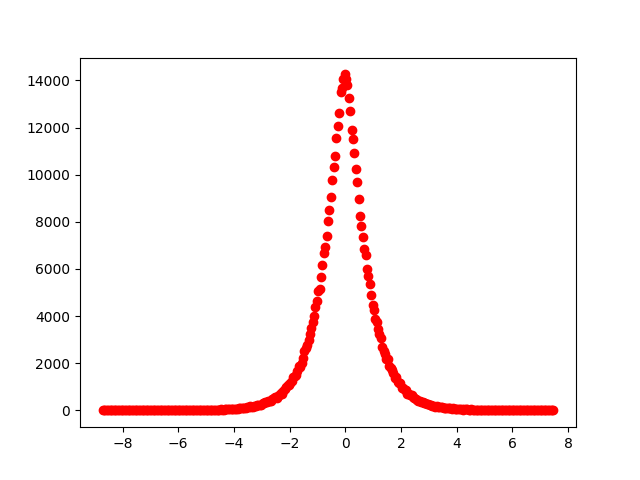
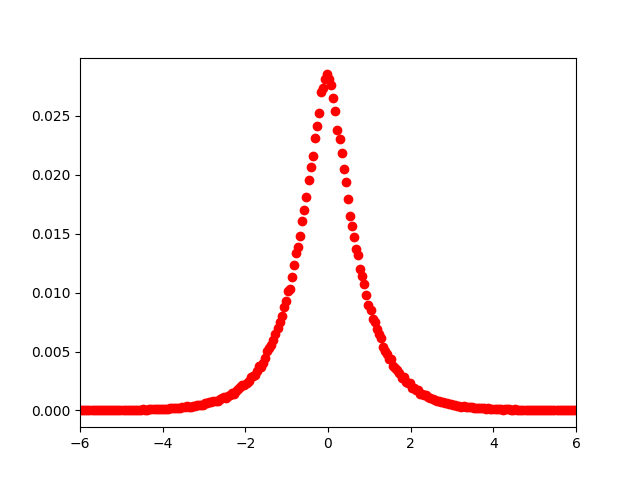
logic for partial arrangements

diff --git a/scripts/md_forces.py b/scripts/md_forces.py
@@ -1,5 +1,6 @@
 import csv
 from lib.gaussian_process import utilities
+from lib.parallel.utilities import parallel
 import numpy as np
 from lib.internal_vector import utilities as iv_utilities
 from lib.gaussian_process.model import GaussianProcess as GP
@@ -9,9 +10,6 @@ import gc
 import matplotlib.pyplot as plt
 
 class MDForcesPredictor:
-
-    def predict(arrangements):
-        pass
 
     def fit(arrangements, forces):
         internal_reps = MDForcesPredictor.produce_internal_from_arrangements(arrangements)
@@ -88,42 +86,21 @@ class MDForcesPredictor:
         MDForcesPredictor.write_data('../datasets/md/iv_reps_108_all.txt', internal_reps)
 
     @staticmethod
-    def load_new_data():
-        all_positions, all_forces = MDForcesPredictor.alternate_load_data('../datasets/lj.dat', 0, 500)
-
-        first_step = all_forces[0]
-
-        first_step_shortened = first_step[:108, :]
-        print(first_step_shortened)
-
-        last_step = all_forces[499]
-
-        last_step_shortened = first_step[:108, :]
-
-        all_steps = np.concatenate(all_forces)
-
-        all_steps_shortened = []
-        for i in range(0, all_steps.shape[0], 1000):
-            all_steps_shortened.append(all_steps[i:i+108, :])
-        all_steps_shortened = np.concatenate(all_steps_shortened)
-
-
-        MDForcesPredictor.plot_force_dist(first_step, 'first')
-        MDForcesPredictor.plot_force_dist(last_step, 'last')
-        MDForcesPredictor.plot_force_dist(first_step_shortened, 'first_shortened')
-        MDForcesPredictor.plot_force_dist(last_step_shortened, 'last_shortened')
-
-        MDForcesPredictor.plot_force_dist(all_steps, 'all')
-        MDForcesPredictor.plot_force_dist(all_steps_shortened, 'all_shortened')
-
-
+    def load_data_protocol_two():
+        all_positions, all_forces = MDForcesPredictor.alternate_load_data('../datasets/md/lj.dat', 0, 500)
+        print(len(all_positions))
+        internal_reps = MDForcesPredictor.produce_internal_from_arrangements(all_positions)
+        MDForcesPredictor.write_data('../datasets/md/iv_reps_guoqing.txt', internal_reps)
 
     @staticmethod
     def plot_force_dist(step, name):
         for i in range(step.shape[1]):
             coordinate_mags = step[:, i]
             (mags, freq) = utilities.bucket(coordinate_mags, .05)
+            freq = np.array(freq)
+            freq = np.divide(freq, freq.sum())
             plt.plot(mags, freq, 'ro')
+            plt.xlim([-6, 6])
             utilities.save_plot('dist_' + name + '_' + str(i))
             plt.clf()
 
@@ -153,22 +130,8 @@ class MDForcesPredictor:
         return cart_forces
 
     @staticmethod
-    def load_arrangements_in_internal(rel_path, start=0, end=None):
-        positions = MDForcesPredictor.load_data(rel_path, start, end)
-        count = 1
-        internal_reps = []
-        for arrangement in positions:
-            internal_reps.append(iv_utilities.produce_internal_basis(arrangement))
-            print(count)
-            count += 1
-        return internal_reps
-
-    @staticmethod
     def produce_internal_from_arrangements(positions):
-        internal_reps = []
-        for arrangement in positions:
-            internal_reps.append(iv_utilities.produce_internal_basis(arrangement))
-        return internal_reps
+        return parallel(iv_utilities.produce_internal_basis, positions)
 
     @staticmethod
     def load_data(rel_path, start=0, end=None):
@@ -191,7 +154,7 @@ class MDForcesPredictor:
 
     # for Guoqing's file format
     @staticmethod
-    def alternate_load_data(rel_path, start=0, end=None):
+    def alternate_load_data(rel_path, start=0, end=None, num_per_arrangement=108):
         data_file = open(utilities.file_path(__file__, rel_path), 'r')
         parsed_csv = csv.reader(data_file, delimiter=' ')
 
@@ -207,7 +170,7 @@ class MDForcesPredictor:
                 reading = True
                 count += 1
             elif reading == True:
-                if row[0] == 'ITEM:':
+                if row[0] == 'ITEM:' or num_per_arrangement == len(all_positions):
                     reading = False
                     all_positions.append(np.array(arrangement_positions))
                     all_forces.append(np.array(arrangement_forces))
@@ -239,12 +202,6 @@ class MDForcesPredictor:
         for real_force_vec, predicted_force_vec in zip(actual_forces, predicted):
             print('vector:')
             for i in range(3):
-
-### DAVID: there are two options for the file writing, the first, which is not commented out, creates
-### an error file tracking all forces and errors, but only printing those that are not cut out by the
-### threshold you set. I think this is preferable as it allows us to retain all of the data, but if
-### you'd rather only keep track of what we're printing, there is a commented out second version below
-
                 error = abs(predicted_force_vec[i] - real_force_vec[i]) / abs(real_force_vec[i]) * 100
                 # Added line below for writing values and error to error file
                 # err_file.write(str(real_force_vec[i]) + "," + str(predicted_force_vec[i]) + "," + str(error) + "\n")
@@ -253,18 +210,10 @@ class MDForcesPredictor:
                     print(predicted_force_vec[i])
                     errors.append(error)
 
-                # if abs(real_force_vec[i]) > thresholds[i]:
-                #     print(real_force_vec[i])
-                #     print(predicted_force_vec[i])
-                #     error = abs(predicted_force_vec[i] - real_force_vec[i]) / abs(real_force_vec[i]) * 100
-                #     errors.append(error)
-                #     # Added line below for writing values and error to error file
-                #     err_file.write(str(real_force_vec[i]) + "," + str(predicted_force_vec[i]) + "," + str(error) + "\n")
-
         print(errors)
         print(np.median(errors))
         print(np.average(errors))
 
-#MDForcesPredictor.predict(sys.argv[1], int(sys.argv[2]))
-#MDForcesPredictor.produce_internal()
-MDForcesPredictor.load_new_data()
+# MDForcesPredictor.predict(sys.argv[1], int(sys.argv[2]))
+# MDForcesPredictor.produce_internal()
+MDForcesPredictor.load_data_protocol_two()

diff --git a/lib/gaussian_process/kernel_methods.py b/lib/gaussian_process/kernel_methods.py
@@ -6,6 +6,7 @@ from .utilities import create_pool
 import multiprocessing as mp
 from lib.internal_vector.utilities import compute_iv_distance
 from timeit import timeit
+from lib.parallel.utilities import parallel
 
 def covariance_exp_arg(x_1, x_2, hyperparams):
     return compute_iv_distance(x_1, x_2)
@@ -78,11 +79,7 @@ def cartesian_operation(X_1, X_2=None, function=None, cores=None, cached_pool=No
         async_results = cached_pool.map_async(operation, all_chunks).get()
     else:
         max_concurrent = cores if max_concurrent is None else max_concurrent
-        for i in range(0, len(all_chunks), max_concurrent):
-            pool = create_pool(max_concurrent)
-            async_results.append(pool.map_async(operation, all_chunks[i:i+max_concurrent]).get())
-            pool.close()
-            pool.join()
+        async_results = parallel(operation, all_chunks, max_concurrent, batch_size=1)
         async_results = [result for result_block in async_results for result in result_block]
 
     chunks_num_1 = int(ceil(float(rows_1) / chunk_size_1))

diff --git a/lib/parallel/utilities.py b/lib/parallel/utilities.py
@@ -1,0 +1,24 @@
+import multiprocessing as mp
+from lib.gaussian_process.utilities import create_pool
+from functools import partial
+
+def batched_task(bundled_task_args, task):
+    return list(map(task, bundled_task_args))
+
+def parallel(task, task_args, max_concurrent=None, batch_size=80):
+    cores = mp.cpu_count() - 1
+    max_concurrent = cores if max_concurrent is None else max_concurrent
+    bundled_task_args = []
+
+    for i in range(0, len(task_args), batch_size):
+        bundled_task_args.append(task_args[i:i+batch_size])
+
+    async_results = []
+    bound_task = partial(batched_task, task=task)
+
+    for i in range(0, len(bundled_task_args), max_concurrent):
+        pool = create_pool(max_concurrent)
+        async_results.append(pool.map_async(bound_task, bundled_task_args[i:i+max_concurrent]).get())
+        pool.close()
+        pool.join()
+    return [result for bundle in async_results for result in bundle]
